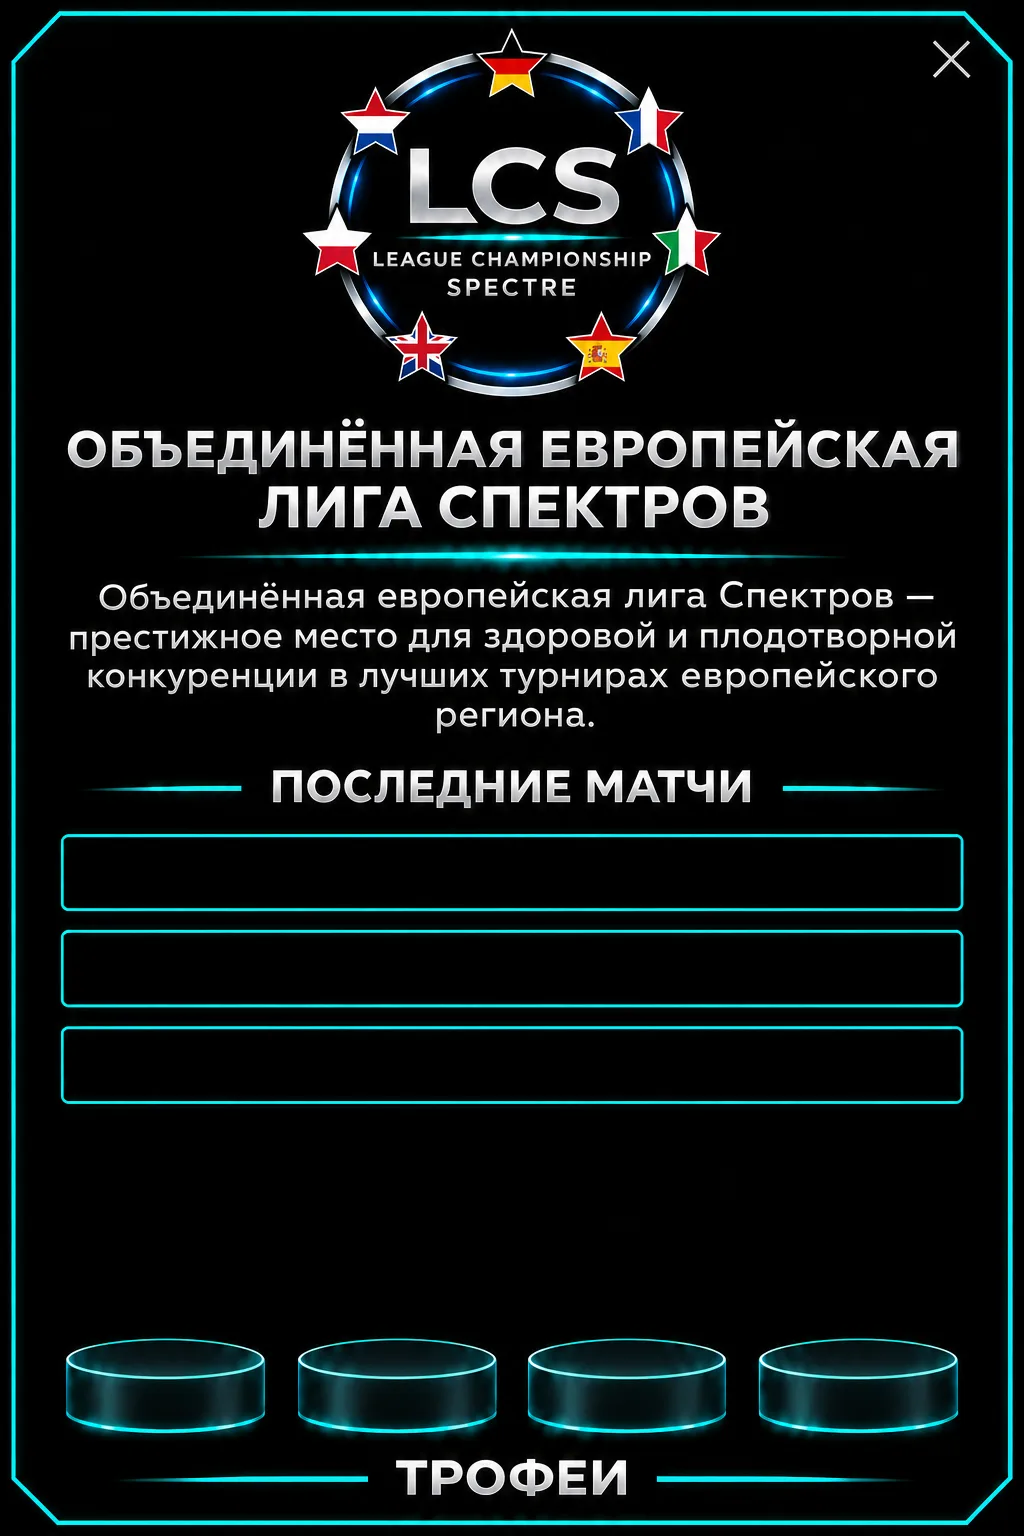
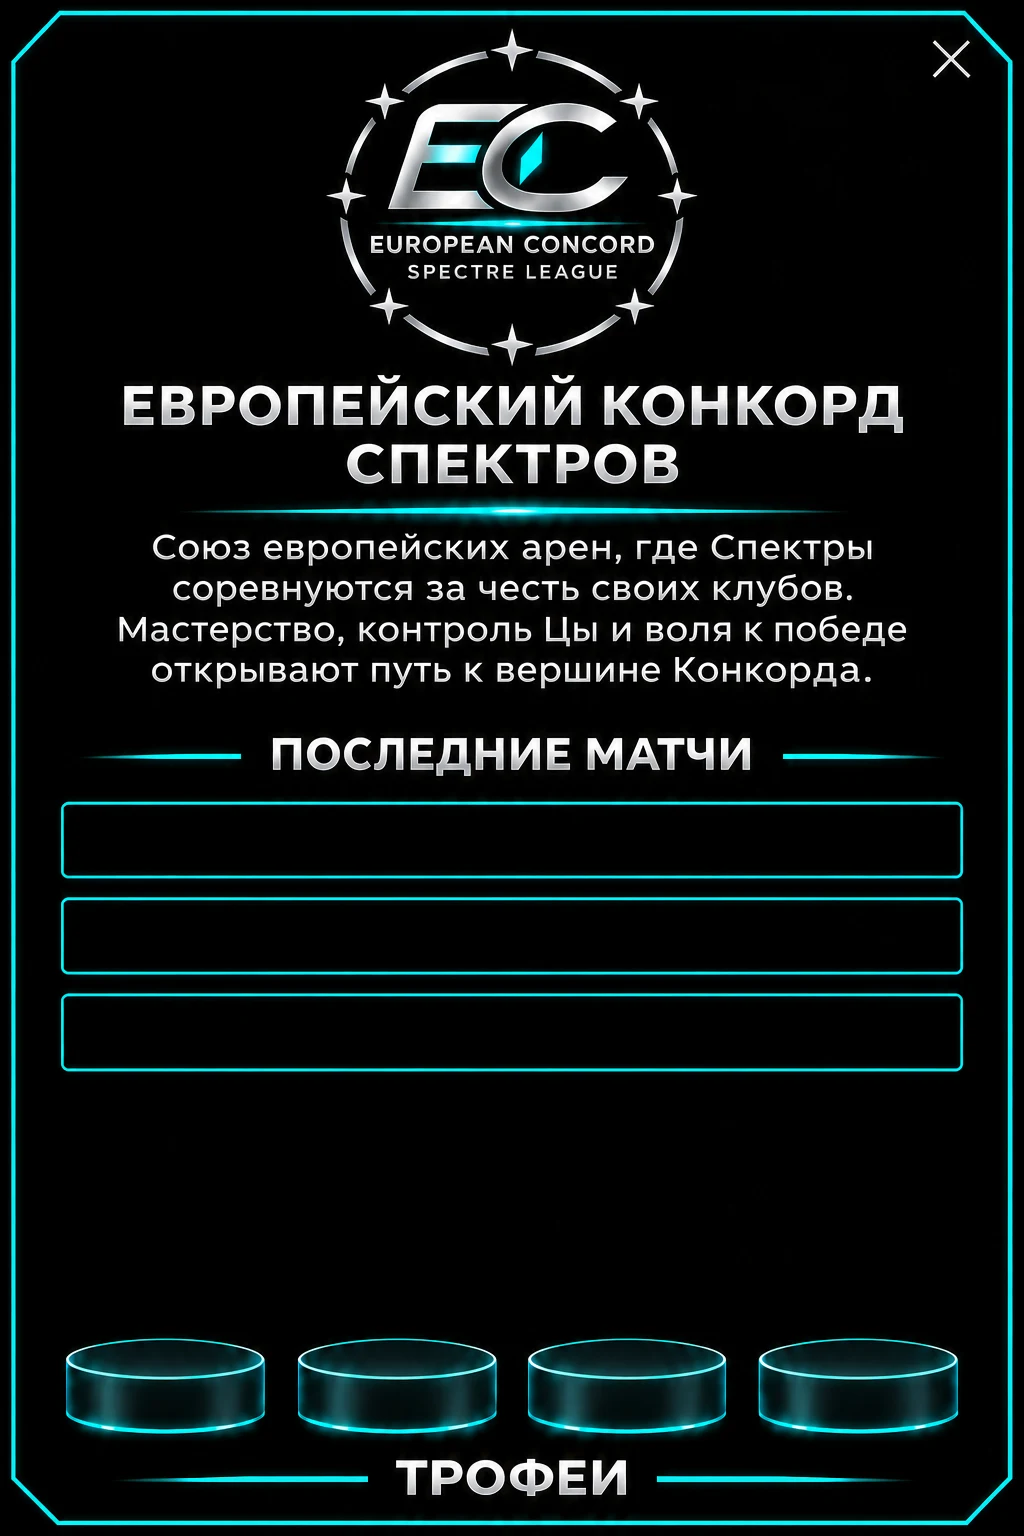
LCS → Европейский Конкорд Спектров (EC): новое название, логотип и карточка лиги
Claude-Session: https://claude.ai/code/session_01BdoBrB8cx4HivwSUnJtpct

diff --git a/index.html b/index.html
@@ -1025,7 +1025,7 @@ const REGIONS = [
     C('Казино', 'r', 5, 'turn'),
     C('Пляж', 'n'), C('Атракционы', 'n'), C('Комик-кон', 'n'), C('Съёмка в подкасте', 'cond'), C('Прогулка по Голливуду', 'n'),
     C('Визит в музей', 'n'), C('Кинопросмотр', 'n'), C('Гастро-тур по Нью-Йорку', 'n'), C('Поход в национальный парк', 'n') ] },
-  { name: 'Европа', city: 'Берлин', league: 'Объединённая европейская лига Спектров (LCS)', cards: [
+  { name: 'Европа', city: 'Берлин', league: 'Европейский Конкорд Спектров (EC)', cards: [
     C('Лекция в Оксфорде', 'p', 5, 'next'), C('Тренировка в Берлине', 'p', 3, 'turn'), C('Интервью для парижского журнала', 'p', 2, 'turn'),
     C('Бюрократия', 'm', -3, 'turn'), C('Лондонский дождь и простуда', 'm', -2, 'turn'),
     C('Ставки в Монако', 'r', 5, 'turn'),
@@ -1059,7 +1059,7 @@ const GENERIC = [
 ];
 // карта 1254×1254: выноски (x0,y0,x1,y1), точки, короткое имя лиги
 const MAPW = 1672, MAPH = 941;
-const MAP_SHORT = ['USA', 'LCS', 'CSL', 'ASL', 'SSS'];   // короткие названия лиг в выносках карты (CSL — Континентальная лига Спектров)   // карта обрезана: сверху 125 px, снизу всё ниже 1000 px
+const MAP_SHORT = ['USA', 'EC', 'CSL', 'ASL', 'SSS'];   // короткие названия лиг в выносках карты (CSL — Континентальная лига Спектров)   // карта обрезана: сверху 125 px, снизу всё ниже 1000 px
 const MAPSPOTS = [   // выноски новой карты 1672×941: рамка (внутренняя тёмная часть) и точка на карте
   { box: [37, 623, 362, 794], pin: [245, 367] },
   { box: [352, 75, 675, 245], pin: [829, 257] },
@@ -1115,7 +1115,7 @@ const EVT_DESC = {
   "r1_6": "Лазурный берег Ниццы. Солнце, бирюзовая вода и прогулка по Английской набережной — лучший отдых перед новой неделей боёв.",
   "r1_7": "Колизей когда-то видел бои гладиаторов. Гид шутит, что Спектры — их наследники, а ты, стоя на древней арене, почти слышишь рёв трибун.",
   "r1_8": "Венская опера даёт концерт в честь лиги Европы. Классическая музыка удивительно точно ложится на ритм Цы — ты впервые слышишь свой поток.",
-  "r1_9": "Прогулка по Лондону: Тауэр, Тауэрский мост и уличные музыканты. На каждом углу экраны показывают матчи лиги LCS.",
+  "r1_9": "Прогулка по Лондону: Тауэр, Тауэрский мост и уличные музыканты. На каждом углу экраны показывают матчи Европейского Конкорда.",
   "r1_10": "В Лувре есть зал, где хранятся картины о Падении метеорита. Художники прошлого рисовали его как звезду, подарившую людям силу.",
   "r1_11": "Октоберфест в Мюнхене: длинные столы, песни и огромные кружки. Шумно, весело, а Цы отдыхает вместе с тобой.",
   "r1_12": "В Эрмитаже проходит выставка древних артефактов с вкраплениями руды. Их создавали задолго до первых Спектров — значит, Цы была с людьми всегда.",
@@ -1320,7 +1320,7 @@ function fixHero(v) {   // старые сохранения героя
   return v;
 }
 const NICK_WORDS = ['Sky', 'Watch', 'Fear', 'Shock', 'Caps', 'Swift', 'Happy', 'Ruler', 'Knight', 'Diana', 'Tyler', 'Ame', 'Lyn', 'Deft', 'Rookie', 'Poki', 'Infi', 'Attacker', 'Reginald'];
-const NICK_FIX = {"Fanatiq": "Fantastiq","G2 Sovereign": "Ronin Two","Vitalis": "Vesper Swarm","Astralis Prime": "Astral Foundry","Origin Guard": "Origin Ward","Secret Order": "Veil Order","Alliance Nexus": "Concord Nexus","Ninja Protocol": "Shadow Protocol","Mouz Vector": "Burrow Vector","Karmine Crown": "Cobalt Regalia","SK Syndicate": "Skyforge Syndicate","BDS Equity": "Boreal Equity","ENCE Polar": "Frost Polar","BIG Forge": "Granite Forge","Rouge Mirage": "Rogue Mirage","SAW Industries": "Serrate Industries","Gaimin Grid": "Guild Grid","Reason Dynamics": "Rational Dynamics","Sprout Genesis": "Verdant Genesis", "EDward Ascent": "Ebon Dynasty", "Damwon Apex": "Seoul Eclipse", "Team Liquid": "Tide Riders","Cloud9": "Nimbus Nine","Evil Genesis": "Umbra Genesis","Envy Dominion": "Azure Dominion","Counter Logic": "Paradox Engine","Dignity Labs": "Xeno Foundry","Complexity Core": "Fractal Core","Optic Horizon": "Prism Horizon","Entus Nexus": "Venus Proxima", "Spirit Dominion": "Wraith","Virtus Prime": "Winter Prime","Natus Apex": "Northern Apex","CSKA Legion": "АКС","Spartak Nexus": "Spartans Nexus","Zenit Energy": "Zenith Stream","Gambit Vector": "Opening Vector","forZe Industries": "Furnace Industries","Nemiga Core": "Nemora Core","Dynamo Pulse": "Dynamic Pulse","Loko Transit": "Transit","Rubin Matrix": "Almaz Matrix","Krasnodar Titan": "Samara Wings","Winstrike Orbit": "Cometstrike Orbit","Hellraiser Forge": "Emberhorn Forge","K23 Nomad": "Steppe Nomad","Vega Array": "Vela Array", "LGD Dynasty": "Legacy Dragon","Invictus Orbit": "Invicta Orbit","Eden Guard": "Eclipse Ward","Top Ascend": "Summit Ascend","Bili Vision": "Pixel Vision","World Elite Union": "Weave Signal","Vici Matrix": "Victor Matrix","Tyloong Forge": "Tyrong Forge","Newbee Hive": "Nova Hive", "T1 Sovereign": "K1 Sovereign","Galaxy Crown": "Galactix Crown","Genesis Gold": "Gilded Genesis","Rolster Velocity": "Rotor Velocity","Longzhu Imperial": "Longshen Imperial","Najin Ember": "Najienx Ember","MagicNs Arcana": "Arcanis Order","Hanwha Vanguard": "Helion Vanguard", "iDrA": "iDrAx", "Scarlett": "Skarlett", "Tyler": "Tayl0r", "Reginald": "Reginaldo", "DoubleLift": "DoubleLyft", "Diana": "Dianna", "Messiah": "Mesiah", "Fear": "Fe4r", "iShowSpeed": "iShowRush", "Valkyria": "Valkyra", "Poki": "Pokki", "Shuri": "Shuuri", "TheShy": "TheShai", "Infi": "Inphi", "Ame": "Amee", "Knight": "Kn1ght", "Sky": "Skai", "Uzi": "Uzzi", "ClearLove": "KlearLove", "TH000": "TH00X", "Attacker": "Attakker", "DrunkenDragon": "DrunkDragon", "Liooon": "Lioon", "Faker": "Fak3r", "Ruler": "Rul3r", "BoxeR": "BoxxeR", "MooN": "Mo0N", "FlaSh": "Fla5h", "Lyn": "Lynn", "Deft": "D3ft", "Rookie": "Rookee", "Watch": "W4tch", "Bisu": "Bisoo", "TossGirl": "TossGurl", "Kerri": "Kerra", "KoLLaps": "KoLLapz", "FnGod": "FunG0d", "H0bb1t": "H0bbi", "N1X": "Ny1X", "M0nESY": "M0nEZY", "Arynka": "Arinna", "EmperoR": "Emper0R", "Ea9le": "Ea9l3", "KrusheR": "KrushR", "Aron1an": "Ar0nix", "Velikaya": "Velika", "Rybka": "Rybina", "Happy": "HaPPi", "MaDFroG": "MaDFrogg", "BlaZe": "Bl4Ze", "Swift": "Svift", "Ocelote": "Ocel0t", "Shock": "Sh0ck", "Caps": "Capz", "EarthQuake": "EarthQuaker", "CandyPanda": "KandyPanda", "NukeDuck": "NukeDuk", "Akke": "Akkee", "sumaiL": "sumaiLL", "koNNoR": "koNNaR", "Kev1N": "Kevv1N", "JaN": "JaNN", "Snoopeh": "Snupeh", "ZoR0Zer0": "ZoR0Zet", "StorM": "St0rM", "Jankos": "Jankoz"};   // реальные ники элиты заменены на отсылки — старые сохранения переводятся при загрузке
+const NICK_FIX = {"Объединённая европейская лига Спектров (LCS)": "Европейский Конкорд Спектров (EC)", "Fanatiq": "Fantastiq","G2 Sovereign": "Ronin Two","Vitalis": "Vesper Swarm","Astralis Prime": "Astral Foundry","Origin Guard": "Origin Ward","Secret Order": "Veil Order","Alliance Nexus": "Concord Nexus","Ninja Protocol": "Shadow Protocol","Mouz Vector": "Burrow Vector","Karmine Crown": "Cobalt Regalia","SK Syndicate": "Skyforge Syndicate","BDS Equity": "Boreal Equity","ENCE Polar": "Frost Polar","BIG Forge": "Granite Forge","Rouge Mirage": "Rogue Mirage","SAW Industries": "Serrate Industries","Gaimin Grid": "Guild Grid","Reason Dynamics": "Rational Dynamics","Sprout Genesis": "Verdant Genesis", "EDward Ascent": "Ebon Dynasty", "Damwon Apex": "Seoul Eclipse", "Team Liquid": "Tide Riders","Cloud9": "Nimbus Nine","Evil Genesis": "Umbra Genesis","Envy Dominion": "Azure Dominion","Counter Logic": "Paradox Engine","Dignity Labs": "Xeno Foundry","Complexity Core": "Fractal Core","Optic Horizon": "Prism Horizon","Entus Nexus": "Venus Proxima", "Spirit Dominion": "Wraith","Virtus Prime": "Winter Prime","Natus Apex": "Northern Apex","CSKA Legion": "АКС","Spartak Nexus": "Spartans Nexus","Zenit Energy": "Zenith Stream","Gambit Vector": "Opening Vector","forZe Industries": "Furnace Industries","Nemiga Core": "Nemora Core","Dynamo Pulse": "Dynamic Pulse","Loko Transit": "Transit","Rubin Matrix": "Almaz Matrix","Krasnodar Titan": "Samara Wings","Winstrike Orbit": "Cometstrike Orbit","Hellraiser Forge": "Emberhorn Forge","K23 Nomad": "Steppe Nomad","Vega Array": "Vela Array", "LGD Dynasty": "Legacy Dragon","Invictus Orbit": "Invicta Orbit","Eden Guard": "Eclipse Ward","Top Ascend": "Summit Ascend","Bili Vision": "Pixel Vision","World Elite Union": "Weave Signal","Vici Matrix": "Victor Matrix","Tyloong Forge": "Tyrong Forge","Newbee Hive": "Nova Hive", "T1 Sovereign": "K1 Sovereign","Galaxy Crown": "Galactix Crown","Genesis Gold": "Gilded Genesis","Rolster Velocity": "Rotor Velocity","Longzhu Imperial": "Longshen Imperial","Najin Ember": "Najienx Ember","MagicNs Arcana": "Arcanis Order","Hanwha Vanguard": "Helion Vanguard", "iDrA": "iDrAx", "Scarlett": "Skarlett", "Tyler": "Tayl0r", "Reginald": "Reginaldo", "DoubleLift": "DoubleLyft", "Diana": "Dianna", "Messiah": "Mesiah", "Fear": "Fe4r", "iShowSpeed": "iShowRush", "Valkyria": "Valkyra", "Poki": "Pokki", "Shuri": "Shuuri", "TheShy": "TheShai", "Infi": "Inphi", "Ame": "Amee", "Knight": "Kn1ght", "Sky": "Skai", "Uzi": "Uzzi", "ClearLove": "KlearLove", "TH000": "TH00X", "Attacker": "Attakker", "DrunkenDragon": "DrunkDragon", "Liooon": "Lioon", "Faker": "Fak3r", "Ruler": "Rul3r", "BoxeR": "BoxxeR", "MooN": "Mo0N", "FlaSh": "Fla5h", "Lyn": "Lynn", "Deft": "D3ft", "Rookie": "Rookee", "Watch": "W4tch", "Bisu": "Bisoo", "TossGirl": "TossGurl", "Kerri": "Kerra", "KoLLaps": "KoLLapz", "FnGod": "FunG0d", "H0bb1t": "H0bbi", "N1X": "Ny1X", "M0nESY": "M0nEZY", "Arynka": "Arinna", "EmperoR": "Emper0R", "Ea9le": "Ea9l3", "KrusheR": "KrushR", "Aron1an": "Ar0nix", "Velikaya": "Velika", "Rybka": "Rybina", "Happy": "HaPPi", "MaDFroG": "MaDFrogg", "BlaZe": "Bl4Ze", "Swift": "Svift", "Ocelote": "Ocel0t", "Shock": "Sh0ck", "Caps": "Capz", "EarthQuake": "EarthQuaker", "CandyPanda": "KandyPanda", "NukeDuck": "NukeDuk", "Akke": "Akkee", "sumaiL": "sumaiLL", "koNNoR": "koNNaR", "Kev1N": "Kevv1N", "JaN": "JaNN", "Snoopeh": "Snupeh", "ZoR0Zer0": "ZoR0Zet", "StorM": "St0rM", "Jankos": "Jankoz"};   // реальные ники элиты заменены на отсылки — старые сохранения переводятся при загрузке
 function loadGame(mode) {
   try {
     let raw = localStorage.getItem(SKEY[mode]) || 'null';
@@ -2061,7 +2061,7 @@ const PRO_COUNT = 12, LADDER_MIN = 10, LADDER_MAX = 55, LADDER_K = 60, ELITE_K =
 const ONLY_ELITE = { 0: true, 1: true, 2: true, 3: true, 4: true };   // в Европе только расписанные вручную Элитные Спектры, старая база убрана
 const proCount = r => ONLY_ELITE[r] ? Object.keys(ELITE_DATA[r] || {}).length : PRO_COUNT;   // Элитных Спектров в регионе
 const DRAFT_WEEKS = 5, LG_PER_WEEK = 3, LG_EXTRA = [];
-const LSHORT = ['USA', 'LCS', 'Северная Лига', 'ASL', 'SSS'];
+const LSHORT = ['USA', 'EC', 'Северная Лига', 'ASL', 'SSS'];
 const LG_STAGE = { KP: 'Плей-ин', RR: 'Регулярный сезон', PI1: 'Плей-ин · раунд 1', PI2: 'Плей-ин · раунд 2', SF: 'Полуфинал', F: 'Финал',
   K1: 'Этап 1 · отбор · 100 → 50', K2: 'Этап 1 · отбор · 50 → 25',
   W1: 'Wild Card · этап 1 · раунд 1', W2: 'Wild Card · этап 1 · раунд 2', W3: 'Wild Card · этап 1 · раунд 3', W4: 'Wild Card · этап 1 · раунд 4', W5: 'Wild Card · этап 1 · раунд 5',
@@ -3554,7 +3554,7 @@ const LIB_NOTES = [
   { t: "Пять лиг", d: "Америка, Европа, Северный континентальный регион, Китай и Корея стали центрами пяти крупных лиг. У каждой — свои турниры, влиятельные корпорации и звёзды. Спектры путешествуют между регионами, набираются опыта и ищут место, где их способности оценят по достоинству." },
   { t: "Места на вершине", d: "Число договоров в каждой лиге строго ограничено. В Америке, Китае и Корее их всего двенадцать, в Северной лиге — двадцать, а Европа собирает сорок команд, включая полупрофессиональные. Договор открывает доступ к самым престижным соревнованиям и борьбе за очки лиги. Попасть в этот круг трудно. Остаться в нём ещё труднее: за каждым свободным местом следят десятки претендентов." },
   { t: "United Spectre Association", d: "Американская лига — двенадцать команд, и за каждой стоит корпорация с громким именем. Сезон идёт в два круга, где каждый встречается с каждым. Двое лучших сразу проходят в полуфинал, места с третьего по десятое бьются в плей-ине. Здесь любят шоу: звёзды, яркие эмблемы и драма до последнего раунда." },
-  { t: "Объединённая европейская лига", d: "LCS — самая многолюдная лига мира: двадцать пять профессиональных команд и пятнадцать полупрофессиональных, которым дали шанс сразиться с элитой. Сорок участников делятся на четыре группы по десять. Победители групп проходят в плей-офф напрямую, места со второго по пятое пробиваются через плей-ин, а двое последних в каждой группе отправляются в Wild Card. Боёв так много, что Европа заканчивает сезон последней." },
+  { t: "Европейский Конкорд Спектров", d: "Европейский Конкорд — самая многолюдная лига мира: двадцать пять профессиональных команд и пятнадцать полупрофессиональных, которым дали шанс сразиться с элитой. Сорок участников делятся на четыре группы по десять. Победители групп проходят в плей-офф напрямую, места со второго по пятое пробиваются через плей-ин, а двое последних в каждой группе отправляются в Wild Card. Боёв так много, что Европа заканчивает сезон последней." },
   { t: "Северная Континентальная лига", d: "Двадцать команд в двух группах по десять. Победители групп сразу выходят в полуфинал, места со второго по шестое дерутся в плей-ине, а четверо последних из каждой группы отправляются в Wild Card. Почти половина таблицы живёт под угрозой вылета, поэтому спокойных сезонов здесь не бывает." },
   { t: "Азиатская лига Спектров", d: "ASL — двенадцать команд Китая, два круга матчей. Сюда приходят за школой и дисциплиной: именно китайские исследователи первыми описали Цы, и местные Спектры расходуют её почти как искусство. Двое лучших идут прямо в полуфинал, места с третьего по десятое — в плей-ин." },
   { t: "Звёздная серия", d: "SSS — корейская лига из двенадцати команд с самым быстрым ритмом: все матчи группового этапа играются в одну игру, в два круга. Одна ошибка стоит очков. Двое лучших ждут в полуфинале, места с третьего по шестое разыгрывают оставшиеся две путёвки, а остальные заканчивают сезон." },

diff --git a/sw.js b/sw.js
@@ -1,5 +1,5 @@
 // Установка как приложения и офлайн: сначала сеть (чтобы приходили обновления), без сети — сохранённая копия.
-const CACHE = 'spektr-v90';
+const CACHE = 'spektr-v91';
 const FILES = ['./', './index.html', './manifest.webmanifest', './icon-192.png', './icon-512.png', './icon-mask.png', './icon-180.png'];
 self.addEventListener('install', e => { e.waitUntil(caches.open(CACHE).then(c => c.addAll(FILES))); self.skipWaiting(); });
 self.addEventListener('activate', e => { e.waitUntil(caches.keys().then(ks => Promise.all(ks.filter(k => k !== CACHE).map(k => caches.delete(k))))); self.clients.claim(); });
